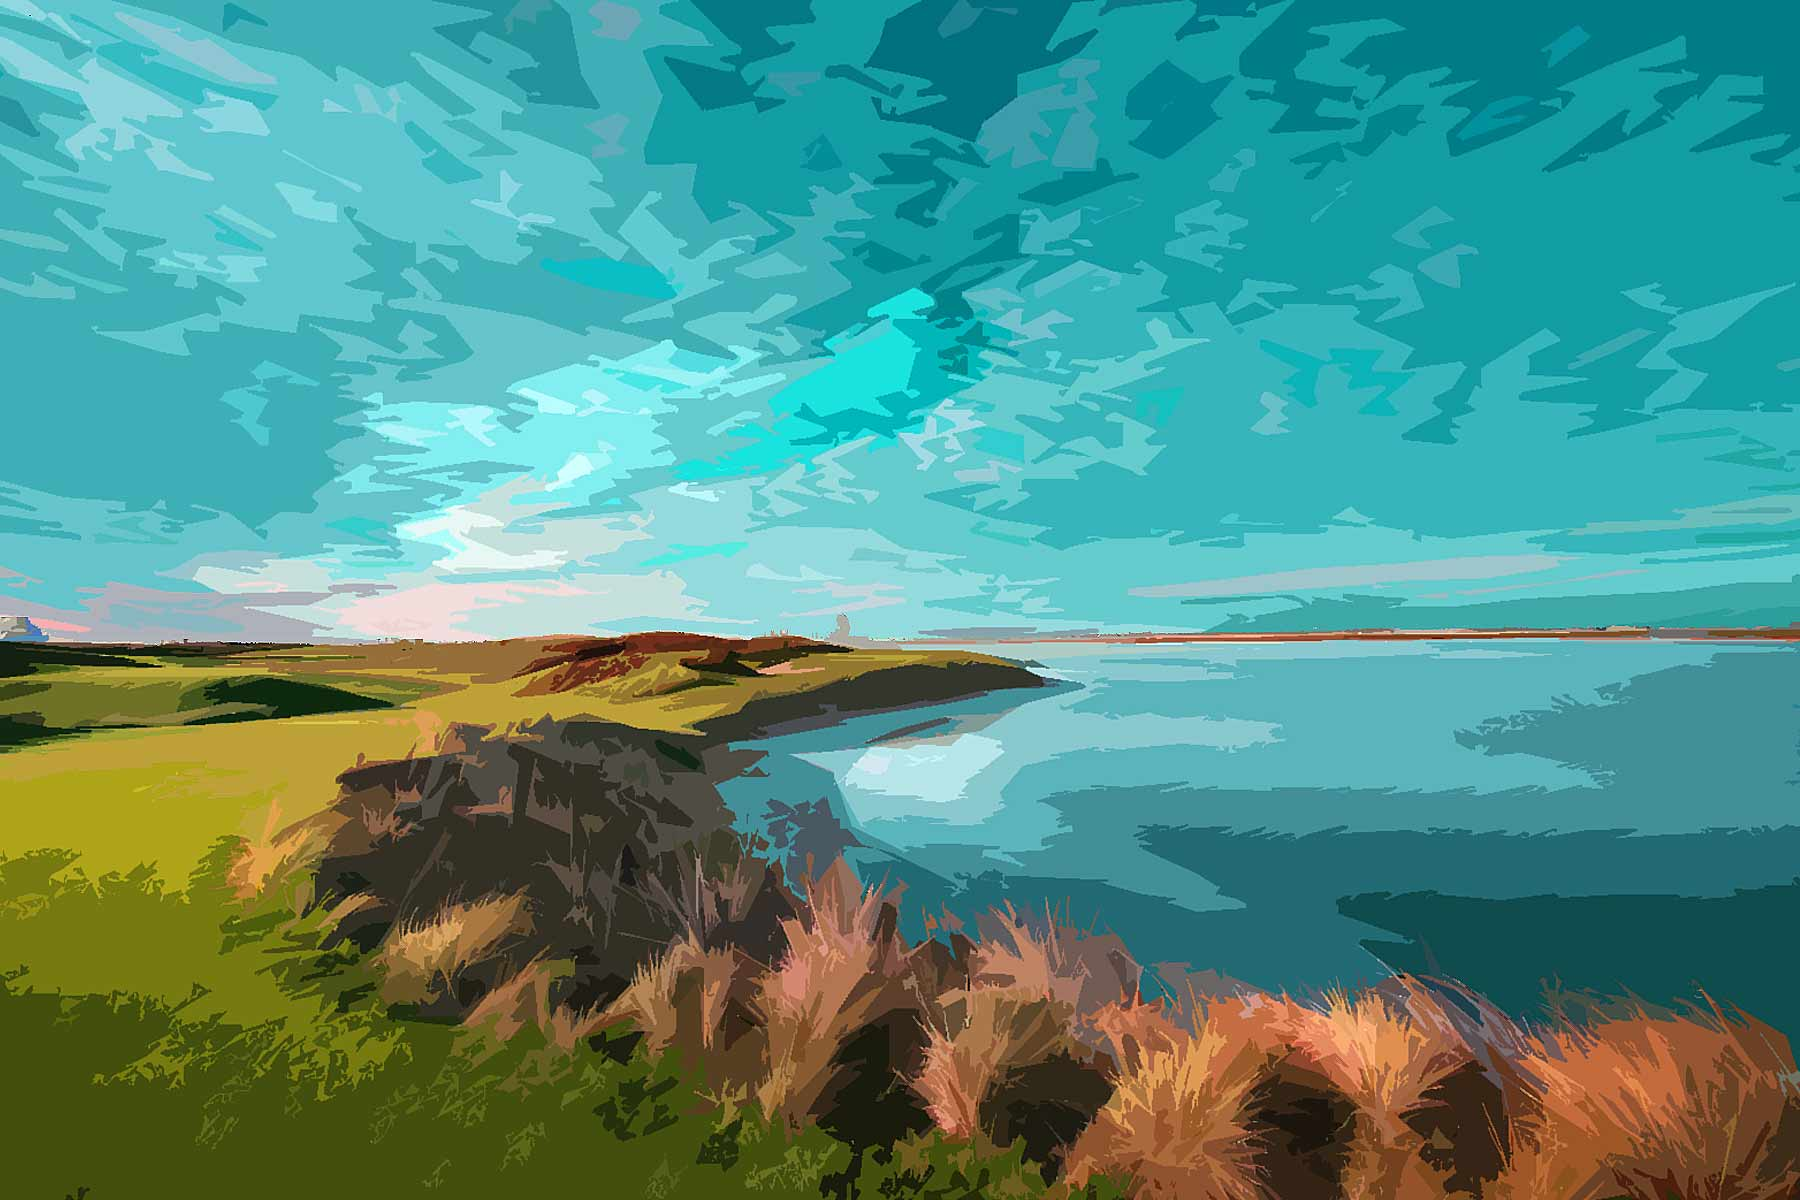
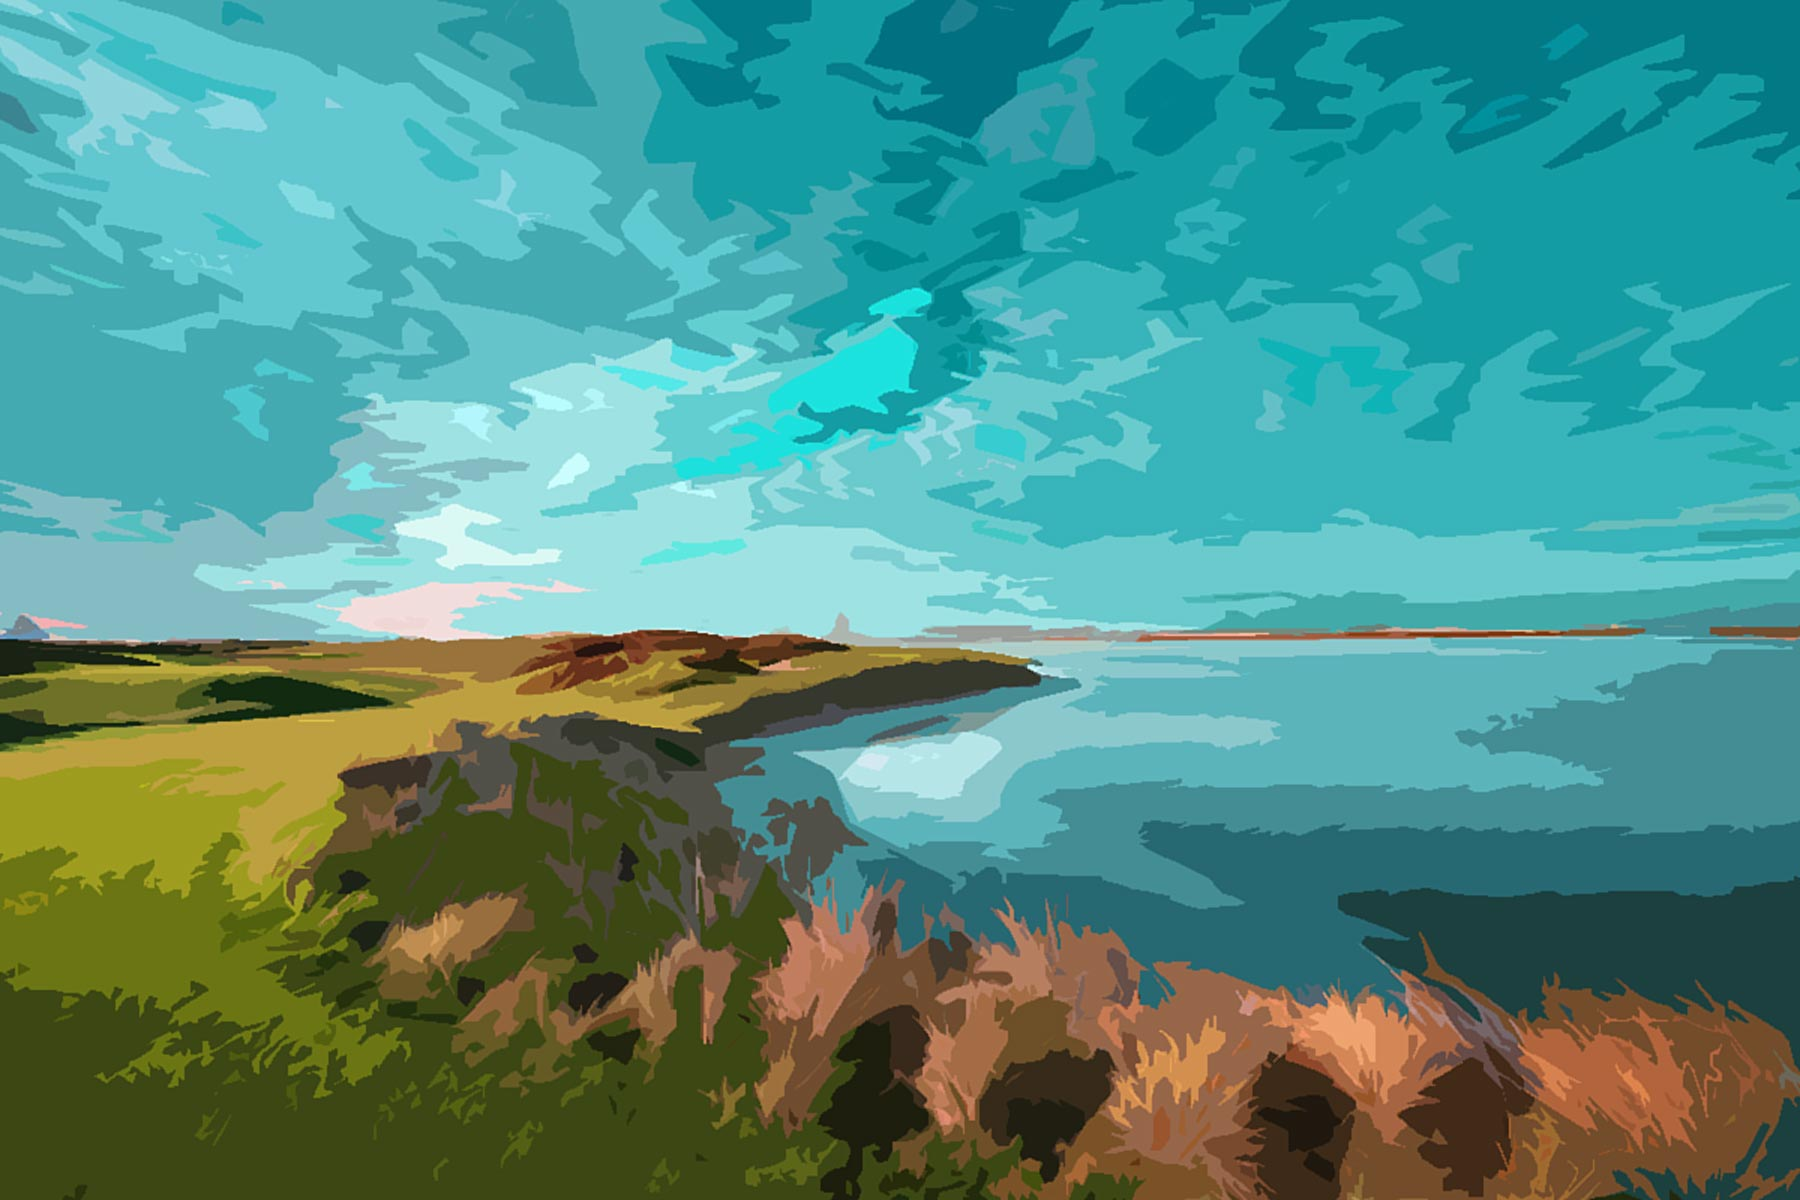
welcome page background + copy, require report in rakr tasks production

diff --git a/app/assets/stylesheets/backgrounds.css.scss b/app/assets/stylesheets/backgrounds.css.scss
@@ -52,7 +52,9 @@ body .transparent {
 .heath-cutout-xl {
 	background: url(backgrounds/heath-cutout.jpg);
 }
-
+.yas-links-xl {
+	background: url(backgrounds/Yas-links-xl.jpg);
+}
 /* <!-- full page backgrounds --> */
 	
 .container .forest {	

diff --git a/app/assets/stylesheets/custom.css.scss b/app/assets/stylesheets/custom.css.scss
@@ -268,7 +268,7 @@ red, red a {
 }
 
 ul.footer-links {
-	margin: 5px 0px 0px;
+	margin: 5px 0px;
 	li {
 		list-style:none;
 	}
